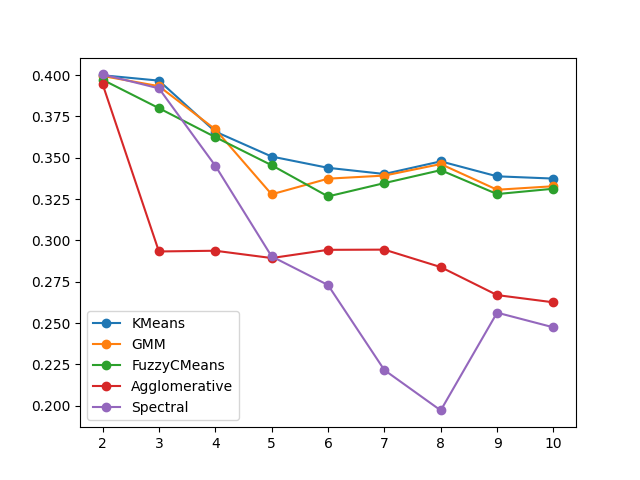
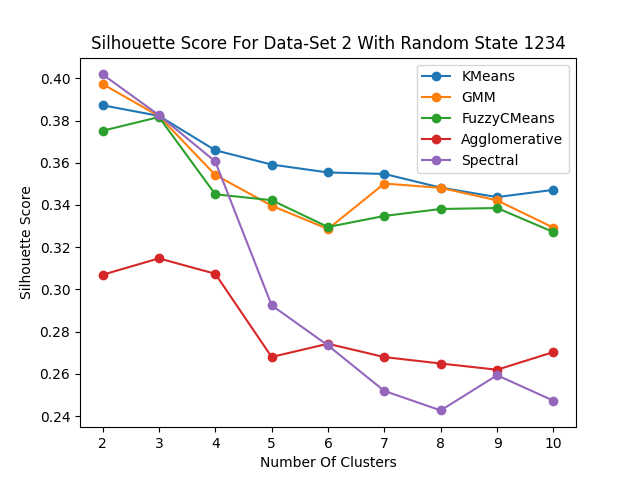
Plots

diff --git a/Code/FitExternalClass.py b/Code/FitExternalClass.py
@@ -6,24 +6,28 @@ import pandas as pd
 import ClusteringAlgorithms
 import DataSets
 import GlobalParameters
-
+from DataSet1 import DataSet1
+from DataSet2 import DataSet2
+from DataSet3 import DataSet3
 
 class FitExternalClass():
 
-    def __init__(self, loadData, randomStates, clusteringAlgorithms=None):
-        self.loadData = loadData
+    def __init__(self, randomStateList=None, clusteringAlgorithms=None):
         self.clusteringAlgorithms =  ClusteringAlgorithms.clusteringAlgorithmsList if clusteringAlgorithms is None else clusteringAlgorithms
-        self.randomStates = randomStates
+        self.randomStateList = GlobalParameters.randomStates if randomStateList is None else randomStateList
 
-    def createCSV(self):
 
-        for label, content in self.loadData.getGroundTruth().iteritems():
+    
+
+    def createCSV(self, dataSet):
+        dataSet.prepareDataset()
+        for label, content in dataSet.getGroundTruth().iteritems():
             nClusters = len(set(content))
             print(f"Checking {label} Classifier With {nClusters} Clusters")
             result = {}
             for clusteringAlgorithm in self.clusteringAlgorithms:
-                clusteringAlgorithm.setDataFrame(self.loadData.getDataFrame())
-                result[clusteringAlgorithm.name] = clusteringAlgorithm.checkAgainstExternalClass(self.randomStates, content)
+                clusteringAlgorithm.setDataFrame(dataSet.getDataFrame())
+                result[clusteringAlgorithm.name] = clusteringAlgorithm.checkAgainstExternalClass(self.randomStateList, content)
             
             # ---------- Results into a DataFrame and add min and max columns ----------
             resultDF = pd.DataFrame(result)
@@ -33,7 +37,7 @@ class FitExternalClass():
             resultDF['Min'] = minList
             
             # ---------- Make Directory ----------
-            directory = os.path.join(os.getcwd(), f"Results\\Dataset{self.loadData.getDatasetIndex()}\\ExternalLabels")
+            directory = os.path.join(os.getcwd(), f"Results\\Dataset{dataSet.getDatasetIndex()}\\ExternalLabels")
             try:
                 os.makedirs(directory)
             except FileExistsError:
@@ -41,23 +45,22 @@ class FitExternalClass():
 
 
             # ---------- Save results in a CSV file ----------
-            resultDF.to_csv(directory+f"\\{label}ClassifierWith{nClusters}ClustersAnd{len(self.randomStates)}RandomStates.csv")
+            resultDF.to_csv(directory+f"\\{label}ClassifierWith{nClusters}ClustersAnd{len(self.randomStateList)}RandomStates.csv")
 
             # ---------- Save bar plot ----------
             algoNameAverageFitDict = {name:fitmentDict['Average'] for name, fitmentDict in result.items()}
             fig, ax = plt.subplots(figsize=(10, 8))
             ax.bar(list(algoNameAverageFitDict.keys()),algoNameAverageFitDict.values())
-            fig.suptitle(f"Average Of Kullback-Leibler Divergence Between Prediction Labels And External \n '{label}' Classifier With {nClusters} Clusters For Data-Set {self.loadData.getDatasetIndex()} Across {len(self.randomStates)} Random States")
-            fig.savefig(directory + f"\\{label}ClassifierWith{nClusters}ClustersAnd{len(self.randomStates)}RandomStates.png")
+            fig.suptitle(f"Average Of Kullback-Leibler Divergence Between Prediction Labels And External \n '{label}' Classifier With {nClusters} Clusters For Data-Set {dataSet.getDatasetIndex()} Across {len(self.randomStateList)} Random States")
+            fig.savefig(directory + f"\\{label}ClassifierWith{nClusters}ClustersAnd{len(self.randomStateList)}RandomStates.png")
             plt.close()
 
 
-
-# for ld in DataSets.dataSetList[0:1]:
-for ld in DataSets.dataSetList:
-
-    ld.prepareDataset()
-    print(f"Running On Dataset {ld.getDatasetIndex()}")
-    
-    fec = FitExternalClass(ld, GlobalParameters.randomStates)
-    fec.createCSV()
+"""
+Due to some memory interference issues with saving the figure and acessing the CSV file for loading the data, this function can't loop over the datasets and save their figures
+"""
+# ds = DataSet1()
+ds = DataSet2()
+# ds = DataSet3()
+fec = FitExternalClass()
+fec.createCSV(ds)
